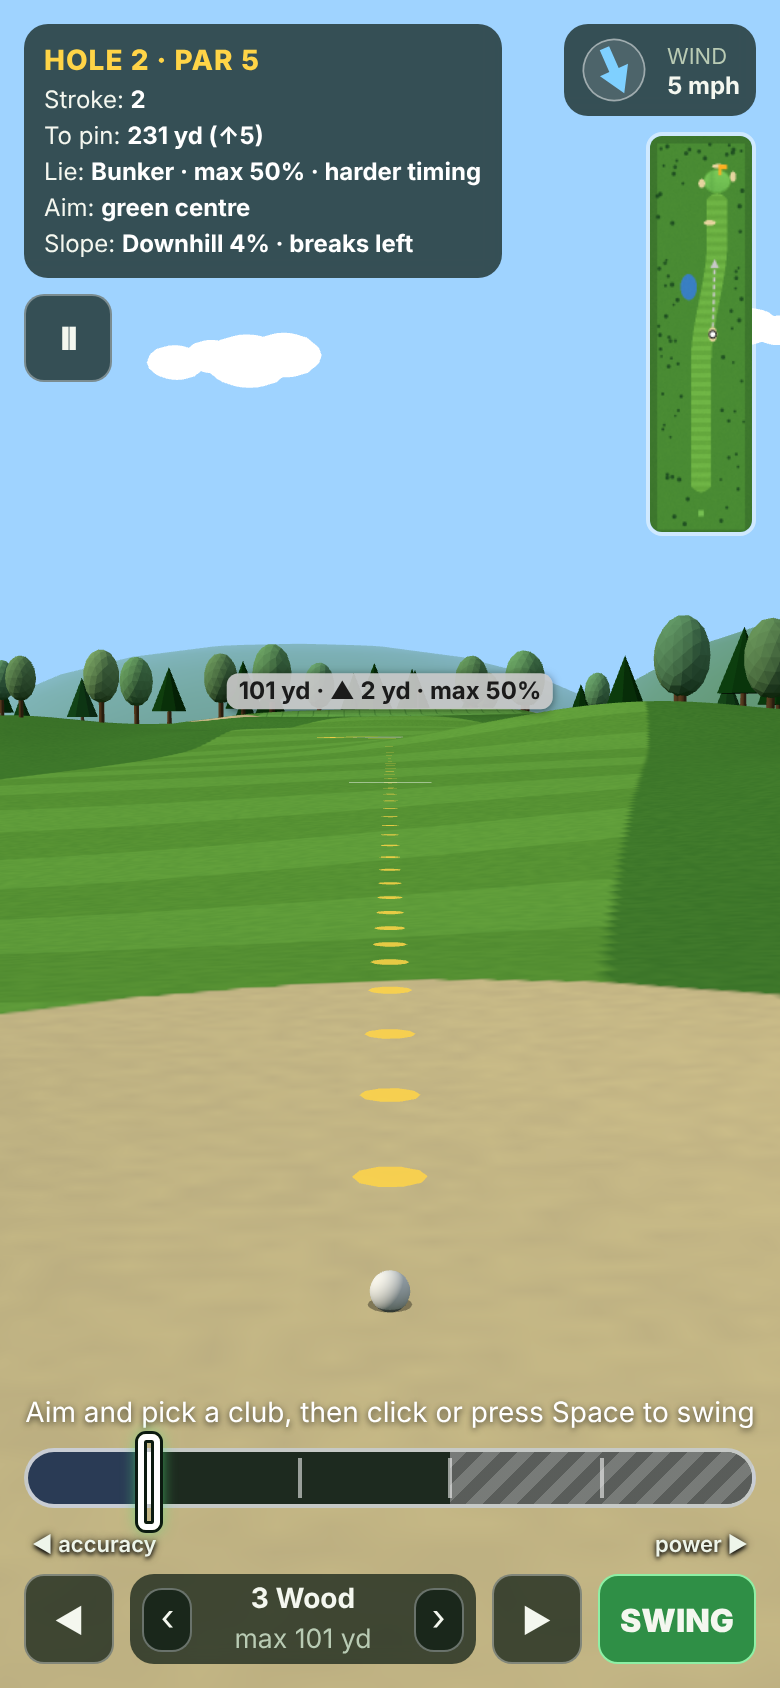
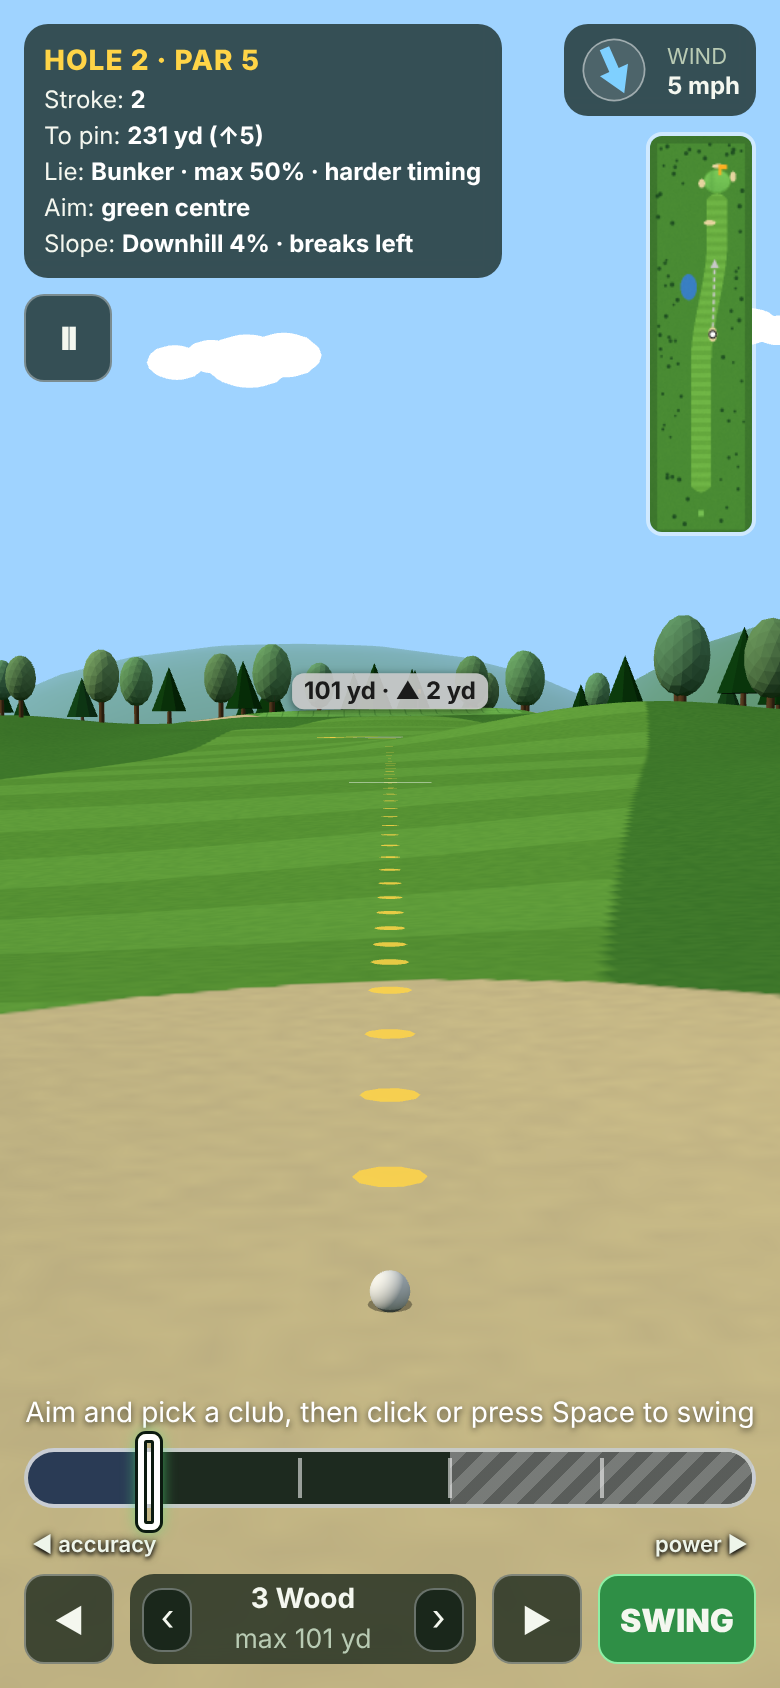
S22: no "max N%" in the aim marker label (owner on PR #53)
On a capped lie the marker stays at the cap and greyed; the label shows
only the distance and the ground. Test, DESIGN, TASKS, screenshot.

Claude-Session: https://claude.ai/code/session_01Rv6NgAADw2XvfsDiNgoB5v

Changed region(s): [[0.2769, 0.4005, 0.7077, 0.4313]]

diff --git a/tests/power-bar.test.js b/tests/power-bar.test.js
@@ -1,6 +1,7 @@
 // S22 (owner, playtest 1): no ⚑ on full shots; the power bar is in POWER_SECTIONS equal parts and the
 // aim line ends in a marker where a straight, no-wind full-power shot lands, with ticks at 25/50/75%
-// and a label "N yd · Flat / ▲ n yd / ▼ n yd" (+ "max 85%" when the lie caps the power, PM on PR #53).
+// and a label "N yd · Flat / ▲ n yd / ▼ n yd". On a capped lie the marker sits at the cap, greyed (PM on PR #53),
+// with no "max N%" in the label (owner on PR #53: the bar and the lie line show it).
 import { test } from 'node:test';
 import assert from 'node:assert/strict';
 import { createHolePlay, aimMarkLabel, minimapTicks } from '../src/core/play.js';
@@ -38,7 +39,7 @@ test('S22: carry is linear in power, so the ticks sit at 25/50/75% of the full c
   }
 });
 
-test('S22: on a capped lie the marker is at the cap (greyed, "max n%") and only the ticks below it are drawn', () => {
+test('S22: on a capped lie the marker is at the cap (greyed, no "max n%" in the label) and only the ticks below it are drawn', () => {
   const rough = on('rough').aimMarks();
   assert.equal(rough.capped, true);
   assert.equal(rough.power, 0.85);
@@ -46,7 +47,8 @@ test('S22: on a capped lie the marker is at the cap (greyed, "max n%") and only 
   const flat = on('fairway').aimMarks();
   assert.ok(Math.abs(rough.dist - 0.85 * flat.dist) < 0.5, 'the capped carry');
   assert.ok(Math.abs(rough.ticks[1].dist - flat.ticks[1].dist) < 1e-9, 'a tick means the same power everywhere');
-  assert.match(aimMarkLabel(rough), /· max 85%$/);
+  assert.match(aimMarkLabel(rough), /^\d+ yd · (Flat|[▲▼] \d+ yd)$/);
+  assert.doesNotMatch(aimMarkLabel(rough), /max/, 'owner on PR #53: no "max N%" in the label');
   const sand = on('sand').aimMarks();
   assert.equal(sand.power, 0.5);
   assert.deepEqual(sand.ticks.map(t => t.frac), [0.25], 'the 50% tick sits on the cap, so only 25% shows');

diff --git a/src/core/play.js b/src/core/play.js
@@ -26,11 +26,12 @@ import { isShotEnd } from './states.js';
 
 
 // S22: the label at the aim marker: the full-power (or capped) carry in yards and the ground there,
-// e.g. "164 yd · Flat", "152 yd · ▲ 5 yd", "98 yd · ▼ 3 yd · max 85%". Pure, so tests read it too.
+// e.g. "164 yd · Flat", "152 yd · ▲ 5 yd", "98 yd · ▼ 3 yd". A capped lie only greys the marker (owner on
+// PR #53: no "max N%" here, the bar and the lie line already show it). Pure, so tests read it too.
 export function aimMarkLabel(m) {
   if (!m) return '';
   const ground = m.ground === 'flat' ? 'Flat' : `${m.ground === 'up' ? '▲' : '▼'} ${Math.max(1, Math.round(Math.abs(m.rise) * M2Y))} yd`;
-  return `${Math.round(m.dist * M2Y)} yd · ${ground}${m.capped ? ` · max ${Math.round(m.power * 100)}%` : ''}`;
+  return `${Math.round(m.dist * M2Y)} yd · ${ground}`;
 }
 
 // S22 (owner on PR #53): the ticks the minimap draws: only the 50% one (MINIMAP_TICKS), the 3D line has all

diff --git a/docs/DESIGN.md b/docs/DESIGN.md
@@ -50,7 +50,7 @@ Today ✅ one hole per page with an intro card and a result card. ❌ No menu, n
   - ✅ **every tee shot (par 3, 4 and 5): straight ahead along the tee's facing** (S21, owner playtest 2026-11-18: "the automatic aiming is still way too easy. On the tee box, the aiming should just be straight away instead of on the green. It's ok sometimes if the default aim ends not in the fairway, makes the player adjust it"). **The facing** (`play.teeFacing()`) is straight down the hole's −z axis (every tee box is drawn square to it), unless the hole's optional `teeFacing: { x, z }` names the point a turned tee box faces (the course designer sets it; PM on PR #53). The aim point is on that line at the selected club's **carry** × `TEE_AIM_CARRY` (1, tunable: `?tune=TEE_AIM_CARRY:0.9`), not a solved spot, so it may end in the rough, a bunker or under trees and the player adjusts. It moves with the club when the player changes club (the direction stays). `play.targetKind` is `'tee'`, the scorecard says "Aim: straight ahead (tee)". **The auto-pick on the tee** is the shortest club that reaches the landing area: a par 4/5's optional `aimTarget`, a par 3's green centre, else the cup (rule 3 below; the Driver on holes 2 and 3, the 7 Iron on hole 1). `aimTarget` no longer steers the aim. Before S21: par 4/5 tee shots aimed at `aimTarget` itself and par 3 tee shots at the green centre.
   - **everything else** (approaches, bunker shots): the **centre of the green** (`features.green`)
   - The ⚑ mark and the auto-pick use the distance to this point (`play.targetDist()`), also after the player turns the aim. The HUD "To pin" is unchanged; the aim line ends in the S22 marker. `play.target` / `play.targetKind` say where it aims; the scorecard shows it under the lie ("Aim: green centre / straight ahead (tee) / the cup / the cup (within 33 yd)", so a new player learns the rule) and the debug overlay too.
-- ✅ **S22 (owner, playtest 1): the ⚑ is for putts only.** Full shots and chips show no ⚑; the player reads distance from the **power bar's 4 equal sections** (25/50/75/100%, `POWER_SECTIONS`) and the **aim marker**: the aim line (3D and minimap) ends in a triangle where a straight, no-wind shot at 100% **lands** (carry, hills included; the same point as "max N yd"), with a short bar across the line where 25%, 50% and 75% land, and a label at the marker: the carry in yards and the ground there, "164 yd · Flat", "152 yd · ▲ 5 yd" (the landing spot is above the ball) or "▼ 3 yd" ("Flat" within `AIM_FLAT_RISE`, 0.5 m, tunable). Carry is exactly linear in power (`launchVelocity`: carry = power × club carry, measured on the real ball within 0.003 of 25/50/75% on flat ground and ±5% slopes), so a section of the bar is a quarter of the carry along the line. **On a capped lie** (rough 85%, sand 50%) the marker sits at the cap, where the ball can actually go, greyed, with "· max 85%" in the label; only the ticks below the cap are drawn, so a tick means the same power everywhere (PM on PR #53). Wind stays the player's read. A putt keeps the small ring and the ⚑. **Owner on PR #53:** the **minimap's** aim line shows only the 50% tick (`MINIMAP_TICKS`) and the end triangle (the 3D line keeps all three ticks); the **minimap is 1.2× bigger** (`MINIMAP_SCALE`, +44% area, `?tune=`), and `hud.js` `fitMinimap()` shrinks it (same shape) only as far as needed to end above the bottom panel (meter and controls), or lets a narrow one run down beside the panel on a wide landscape screen (replaces the fixed CSS cap of 100vh − 240 px). ⏩ Skip may sit over the minimap's corner while the ball moves (PM on PR #53: it only shows then). The "◀ accuracy / power ▶" labels sit below the accuracy frame. **The accuracy window** (the third-click target) is also drawn as a white frame with a dark outline that sticks out 7 px above and below the bar, so the target shows at a glance. `play.aimMarks()` / `aimMarkLabel()` (core) give the marker, ticks and label. The yellow ring of full shots is replaced by the marker.
+- ✅ **S22 (owner, playtest 1): the ⚑ is for putts only.** Full shots and chips show no ⚑; the player reads distance from the **power bar's 4 equal sections** (25/50/75/100%, `POWER_SECTIONS`) and the **aim marker**: the aim line (3D and minimap) ends in a triangle where a straight, no-wind shot at 100% **lands** (carry, hills included; the same point as "max N yd"), with a short bar across the line where 25%, 50% and 75% land, and a label at the marker: the carry in yards and the ground there, "164 yd · Flat", "152 yd · ▲ 5 yd" (the landing spot is above the ball) or "▼ 3 yd" ("Flat" within `AIM_FLAT_RISE`, 0.5 m, tunable). Carry is exactly linear in power (`launchVelocity`: carry = power × club carry, measured on the real ball within 0.003 of 25/50/75% on flat ground and ±5% slopes), so a section of the bar is a quarter of the carry along the line. **On a capped lie** (rough 85%, sand 50%) the marker sits at the cap, where the ball can actually go, greyed (owner on PR #53: no "max N%" in the label, the bar and the lie line already show it); only the ticks below the cap are drawn, so a tick means the same power everywhere (PM on PR #53). Wind stays the player's read. A putt keeps the small ring and the ⚑. **Owner on PR #53:** the **minimap's** aim line shows only the 50% tick (`MINIMAP_TICKS`) and the end triangle (the 3D line keeps all three ticks); the **minimap is 1.2× bigger** (`MINIMAP_SCALE`, +44% area, `?tune=`), and `hud.js` `fitMinimap()` shrinks it (same shape) only as far as needed to end above the bottom panel (meter and controls), or lets a narrow one run down beside the panel on a wide landscape screen (replaces the fixed CSS cap of 100vh − 240 px). ⏩ Skip may sit over the minimap's corner while the ball moves (PM on PR #53: it only shows then). The "◀ accuracy / power ▶" labels sit below the accuracy frame. **The accuracy window** (the third-click target) is also drawn as a white frame with a dark outline that sticks out 7 px above and below the bar, so the target shows at a glance. `play.aimMarks()` / `aimMarkLabel()` (core) give the marker, ticks and label. The yellow ring of full shots is replaced by the marker.
 - The **⚑ mark** (since S22 putts only; the core value `play.pinPower()` is still kept for every shot: validateHole and tests use it) shows the power needed to reach the default aim point (S18; the pin for a putt), adjusted for elevation (S12). ✅ Since S15 it is the power at which the ball **comes to rest** there: core plays the whole shot (flight, bounces, roll, slopes, cup) on a second, invisible ball with no wind and a straight hit (`play.restPoint()`), so a long club's run-out is included (before, every club landed 95% of the way and a 3 Wood finished 7–11 m past the pin, QA G2). With no wind and a straight shot, every club at 100–180 m finishes within 2 m of the target on flat ground and on ±8% slopes (tests/pin-mark.test.js; on a straight test hole it usually drops). Where no power finishes there, because a short ball lands on a bank and rolls back while a longer one carries onto the top and runs on (below hole 2's raised green), the ⚑ takes the power with the closest finish. ✅ **Chips stop short** (PM on PR #31, "harder is much better"): within `CHIP_AIM_RANGE` of the cup, with a club (not the putter), the ⚑ marks a finish `CHIP_FLAG_SHORT` (1.5 m, tunable) **short** of the cup, so a perfect ⚑ chip leaves a short putt and going for the hole means adding power on purpose. Compare with `?tune=CHIP_FLAG_SHORT:0` (finish at the cup) or `:3`. Above the lie's cap it sits in the grayed-out part (out of reach with this club). Near the right end of the meter the flag is drawn on the left of its line so it isn't cut off (H1). Rolling back off a tier is included since S15 only as far as the ⚑ picks the closest finish; reading a ridge stays the player's job (PM on PR #15).
 - The club is picked automatically each shot (see "Club auto-pick") and the player can change to any club in the bag.
 

diff --git a/docs/TASKS.md b/docs/TASKS.md
@@ -138,7 +138,7 @@ Goal: trees and rocks that matter. See DESIGN §4 "Obstacles" and the "Rock" sur
 
 ## Playtest 1 gameplay pass (owner, 2026-11-18)
 - [x] **S21** (owner: "The automatic aiming is still way too easy. On the tee box, the aiming should just be straight away instead of on the green. It's ok sometimes if the default aim ends not in the fairway, makes the player adjust it.") Every tee shot (par 3, 4, 5) aims straight ahead along the tee's facing at the selected club's normal distance; the ⚑ and the auto-pick follow. `validateHole`: the default tee shot may end off the fairway, never in a penalty. Tests; v2 re-recorded *(Dev, Nov 18, `dev/S21-tee-aim`, PR #53: the tee faces straight down −z unless the hole sets `teeFacing: { x, z }` (PM on PR #53); the aim point is the club's carry × `TEE_AIM_CARRY` (1, `?tune=`) on that line and moves with the club; the auto-pick reaches `aimTarget` (now optional) or a par 3's green; `targetKind` 'tee', "Aim: straight ahead (tee)". validateHole replaces the K8 "no warning on the default tee shot" rule with "never ends in water/OB" for the shot that finishes at the aim point (a full swing may run long: mtn-06). After #50: mtn-07 got `teeFacing` (validateHole asked); mtn-03/06 tests adapted. tests/default-aim.test.js)*
-- [x] **S22** (owner, from his example HUD) **Power bar:** no ⚑ on full shots or chips (kept for putts); the power bar in 4 equal sections; the aim line (3D and minimap) ends in a marker where a 100% straight no-wind shot lands, with ticks at 25/50/75%; a label at the marker with the full-power distance and the ground there (Flat / ▲ n yd / ▼ n yd). First check that power → carry is linear *(Dev, Nov 18, PR #53: carry is exactly linear (within 0.003, flat and ±5%), so no curve change. `play.aimMarks()` + `aimMarkLabel()` in core; on a capped lie the marker is at the cap, grey, "max 85%", only ticks below the cap (PM). `POWER_SECTIONS` 4, `AIM_FLAT_RISE` 0.5 m (`?tune=`). Intro texts of holes 1–2 and one scenario no longer mention the ⚑ / yellow ring. Owner on PR #53: minimap shows only the 50% tick, minimap ×1.2 (`MINIMAP_SCALE`, fitted clear of the panel and Skip), accuracy window framed past the bar's edges. tests/power-bar.test.js)*
+- [x] **S22** (owner, from his example HUD) **Power bar:** no ⚑ on full shots or chips (kept for putts); the power bar in 4 equal sections; the aim line (3D and minimap) ends in a marker where a 100% straight no-wind shot lands, with ticks at 25/50/75%; a label at the marker with the full-power distance and the ground there (Flat / ▲ n yd / ▼ n yd). First check that power → carry is linear *(Dev, Nov 18, PR #53: carry is exactly linear (within 0.003, flat and ±5%), so no curve change. `play.aimMarks()` + `aimMarkLabel()` in core; on a capped lie the marker is at the cap, grey, only ticks below the cap (PM; owner: no "max N%" in the label). `POWER_SECTIONS` 4, `AIM_FLAT_RISE` 0.5 m (`?tune=`). Intro texts of holes 1–2 and one scenario no longer mention the ⚑ / yellow ring. Owner on PR #53: minimap shows only the 50% tick, minimap ×1.2 (`MINIMAP_SCALE`, fitted clear of the panel and Skip), accuracy window framed past the bar's edges. tests/power-bar.test.js)*
 
 ## Phase 5: Rain *(moved after Gate B, owner 2026-11-17)*
 - [ ] **W1** `weather` field on holes. A hole set can also override it (same holes, rainy day)
